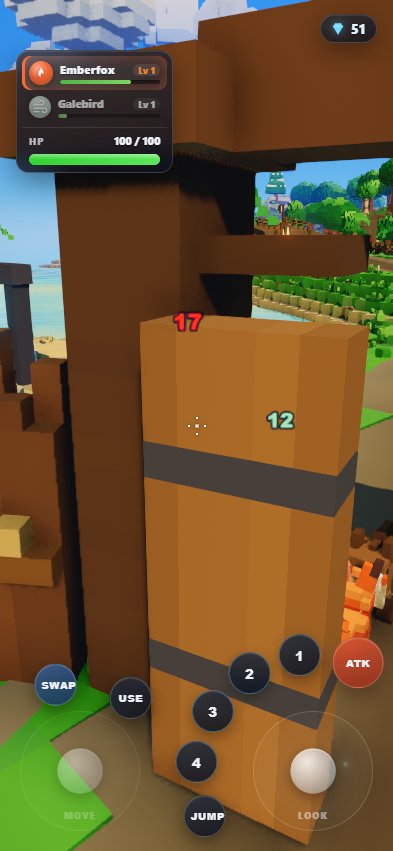
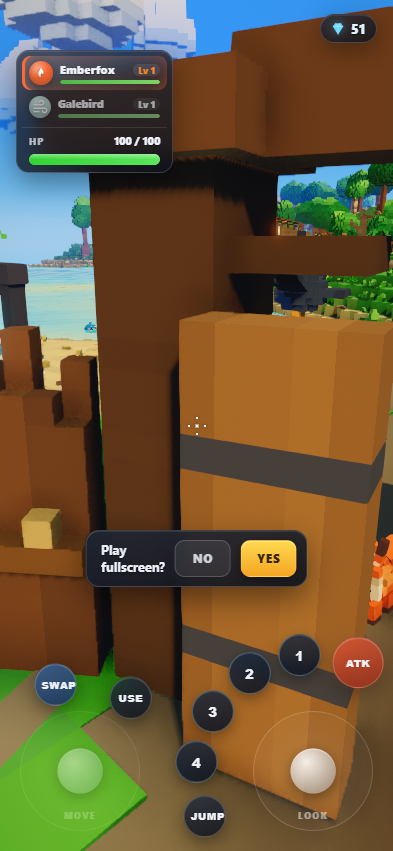
Touch: offer fullscreen once, with a real gesture behind the Yes
A small pill on touch devices only — "Play fullscreen?" with NO / YES.

THE GESTURE IS THE WHOLE PROBLEM. requestFullscreen() only works from inside a
genuine user-activation handler, so it is the FIRST statement of the YES button's
own click handler: no frame-loop flag, no timer, no promise chain. Storing the
answer and tearing down the DOM happen after the call is already issued. Verified
with a TRUSTED CDP tap rather than a synthetic dispatchEvent — a synthetic event
grants no user activation and would have silently passed a broken implementation.

It is a body-level sibling of .cp-root, not a child, because .cp-root's z-index
opens a stacking context and nothing inside it can hit-test above the touch
overlay. Only the pill is pointer-events:auto and both answers remove() the node,
so nothing survives to swallow a look drag — measured: after dismissal
elementFromPoint at its old location returns CANVAS and a drag there turns the
camera 4.01 rad.

Placement is measured, not guessed. The fan buttons top out at 217px but the
INVISIBLE look pad starts at 232px; a first pass at 240px left an 8px band a
thumb could clip. 264px gives 32px of clearance and clears .cp-hint too.

iPhone Safari has no element-level Fullscreen API at all, so the feature detect
means the prompt is never built there — a Yes that does nothing is worse than no
prompt, and the detect is the one thing ?fsprompt=1 does not bypass.
[…]

diff --git a/src/ui/fullscreen.ts b/src/ui/fullscreen.ts
@@ -1,0 +1,202 @@
+import { isTouchPrimary } from '../core/touch';
+import { injectStyles } from './styles';
+
+/**
+ * "Play fullscreen?" — a two-button pill, touch devices only.
+ *
+ * WHY IT IS A SEPARATE OVERLAY AND NOT A HUD CHILD
+ *
+ * `.cp-root` is `z-index:20`, which makes it a stacking context, so a child of
+ * it can never hit-test above the touch overlay at `z-index:30` — and the pill
+ * has to sit over the corner the transparent look pad owns. So this is a
+ * body-level sibling at `z-index:40`, built and removed by this module alone.
+ * Its CSS still lives in `ui/styles.ts` with the rest of the HUD sheet
+ * (`cp-fsprompt` / `cp-fs-btn`), and it follows the same rule everything else
+ * there follows: the interactive element opts INTO pointer events, nothing else
+ * does, and dismissing it deletes the node — there is no invisible wrapper left
+ * over the play area to eat a drag.
+ *
+ * THE GESTURE RULE
+ *
+ * `Element.requestFullscreen()` only counts when the browser can attribute it to
+ * a user activation. It is therefore called as the FIRST statement of the YES
+ * button's own click handler — not deferred to a frame-loop flag, not chained
+ * onto a promise that lands a tick later, not fired from a timer. Everything
+ * that is not the request itself (remembering the answer, tearing the DOM down)
+ * happens after the call has already been made.
+ *
+ * WHERE IT DOES NOT APPEAR
+ *
+ * iOS Safari on iPhone has no element-level Fullscreen API at all — no
+ * `requestFullscreen`, no `webkitRequestFullscreen` on an element, only
+ * `<video>.webkitEnterFullscreen`. A prompt whose YES silently does nothing is
+ * worse than no prompt, so `supported()` feature-detects both the standard and
+ * the webkit-prefixed entry points (plus the `*fullscreenEnabled` flag, which is
+ * how an iframe or a policy says "the method exists but is forbidden") and the
+ * prompt is simply never built where the answer could not be honoured.
+ *
+ * PERSISTENCE — see `readAnswer`.
+ */
+
+/** localStorage key. Namespaced so a later save system can share the prefix. */
+const STORAGE_KEY = 'cp:fullscreen-prompt';
+
+type Answer = 'yes' | 'no';
+
+/** The prefixed half of the API, as it exists on Safari/older WebKit. */
+type FsElement = HTMLElement & {
+  webkitRequestFullscreen?: () => Promise<void> | void;
+};
+type FsDocument = Document & {
+  webkitFullscreenElement?: Element | null;
+  webkitFullscreenEnabled?: boolean;
+};
+
+/**
+ * True when this browser can actually put the page fullscreen.
+ *
+ * The method check is the important half (iPhone Safari fails it outright); the
+ * `*fullscreenEnabled` check catches the case where the method exists but the
+ * embedding context forbids it, and is written as `!== false` so a browser that
+ * never defined the flag is not disqualified by it.
+ */
+export function fullscreenSupported(): boolean {
+  if (typeof document === 'undefined') return false;
+  const el = document.documentElement as FsElement;
+  const doc = document as FsDocument;
+  if (typeof el.requestFullscreen === 'function') return doc.fullscreenEnabled !== false;
+  if (typeof el.webkitRequestFullscreen === 'function') return doc.webkitFullscreenEnabled !== false;
+  return false;
+}
+
+/** Currently fullscreen, by either spelling. */
+export function isFullscreen(): boolean {
+  const doc = document as FsDocument;
+  return !!(document.fullscreenElement ?? doc.webkitFullscreenElement ?? null);
+}
+
+/**
+ * The stored answer, or null if never asked.
+ *
+ * BOTH answers are sticky and both suppress the prompt forever after.
+ *
+ * "No" obviously has to stick or it nags on every load. "Yes" sticks for the
+ * same reason: the answer CANNOT be replayed automatically — entering
+ * fullscreen needs a gesture and a page load is not one — so re-asking a player
+ * who already said yes is the identical nag with a nicer story attached, and
+ * quietly grabbing fullscreen off their first ATK tap instead would fire in the
+ * middle of gameplay and read as a bug. So a "yes" session that ends (or a
+ * system swipe out of fullscreen) simply leaves the game windowed, and
+ * `?fsprompt=1` is the documented way back — the same URL-override culture the
+ * post-processing knobs already use.
+ *
+ * localStorage throws in some private-browsing modes; a failure degrades to
+ * "never asked", i.e. the prompt shows again next load, which is the harmless
+ * direction to fail in.
+ */
+function readAnswer(): Answer | null {
+  try {
+    const v = window.localStorage.getItem(STORAGE_KEY);
+    return v === 'yes' || v === 'no' ? v : null;
+  } catch {
+    return null;
+  }
+}
+
+function writeAnswer(a: Answer): void {
+  try {
+    window.localStorage.setItem(STORAGE_KEY, a);
+  } catch {
+    /* private mode: the answer just does not persist */
+  }
+}
+
+export class FullscreenPrompt {
+  private el: HTMLDivElement | null = null;
+
+  /**
+   * Build the prompt, or return null when it should not be shown.
+   *
+   * The gate, in order:
+   *   - `?fsprompt=0` suppresses it outright (captures, tooling).
+   *   - `?fsprompt=1` forces it past the device test and any stored answer, so
+   *     it can be inspected on a desktop and re-offered after a "no". It does
+   *     NOT bypass the feature detect: a YES that does nothing stays impossible.
+   *   - otherwise: touch-primary device (the SAME `isTouchPrimary()` the touch
+   *     overlay uses — there is no second device test), API present, no stored
+   *     answer, and not already fullscreen.
+   */
+  static offer(): FullscreenPrompt | null {
+    let force = false;
+    try {
+      const p = new URLSearchParams(window.location.search).get('fsprompt');
+      if (p === '0') return null;
+      force = p === '1';
+    } catch { /* no search params: fall through to the normal gate */ }
+
+    if (!fullscreenSupported()) return null;
+    if (!force) {
+      if (!isTouchPrimary()) return null;
+      if (readAnswer() !== null) return null;
+      if (isFullscreen()) return null;
+    }
+    return new FullscreenPrompt();
+  }
+
+  private constructor() {
+    injectStyles();
+
+    const el = document.createElement('div');
+    el.className = 'cp-fsprompt';
+    el.innerHTML =
+      '<div class="txt">Play fullscreen?</div>' +
+      '<button class="cp-fs-btn no" type="button">NO</button>' +
+      '<button class="cp-fs-btn yes" type="button">YES</button>';
+    this.el = el;
+
+    const yes = el.querySelector('.cp-fs-btn.yes') as HTMLButtonElement;
+    const no = el.querySelector('.cp-fs-btn.no') as HTMLButtonElement;
+
+    yes.addEventListener('click', () => {
+      // FIRST — the browser only honours this while the activation from this
+      // very click is still live. Nothing may run before it.
+      const el2 = document.documentElement as FsElement;
+      const req = typeof el2.requestFullscreen === 'function'
+        ? el2.requestFullscreen({ navigationUI: 'hide' })
+        : el2.webkitRequestFullscreen?.();
+      // A rejection here (user agent said no, or the activation was stale) is
+      // not worth an error dialog — the game just stays windowed. Swallow it so
+      // it does not surface as an unhandled rejection.
+      void Promise.resolve(req).catch(() => {});
+      writeAnswer('yes');
+      this.close();
+    });
+
+    no.addEventListener('click', () => {
+      writeAnswer('no');
+      this.close();
+    });
+
+    document.body.appendChild(el);
+    // Next frame so the entrance transition has a start state to move from.
+    requestAnimationFrame(() => el.classList.add('show'));
+  }
+
+  /** True while the pill is on screen. */
+  get isOpen(): boolean {
+    return this.el !== null;
+  }
+
+  /**
+   * Take the pill away without recording anything. Used by dispose(); an answer
+   * goes through the button handlers, which write first and then land here.
+   */
+  private close(): void {
+    this.el?.remove();
+    this.el = null;
+  }
+
+  dispose(): void {
+    this.close();
+  }
+}

diff --git a/src/ui/styles.ts b/src/ui/styles.ts
@@ -363,6 +363,58 @@ const CSS = `
   flex-wrap:wrap;justify-content:center;font-size:11.5px;font-weight:600;color:rgba(238,242,248,.7)}
 .cp-shop-foot span{display:inline-flex;align-items:center;gap:6px;white-space:nowrap}
 
+/* ---- fullscreen offer (touch devices only) ------------------------------- */
+/* A body-level SIBLING of .cp-root, not a child of it. .cp-root carries
+   z-index:20 and therefore opens its own stacking context, so nothing inside it
+   can ever hit-test above the touch overlay (.cp-touch, z-index:30) — and this
+   prompt is drawn right over the corner the look pad owns. Sitting at z-index:40
+   in the ROOT stacking context is what lets it take its own taps. The dev
+   console (9000) and the F2 overlay (9999) still win, as they should.
+
+   There is no wrapper and no scrim: the ONLY pixels this thing occupies are its
+   own, and both answers remove() the element outright, so nothing is left
+   behind to swallow a drag. pointer-events:auto sits on the pill itself rather
+   than on a parent, following the same opt-in rule the rest of the HUD uses.
+
+   bottom:264px is measured, not guessed. What has to be cleared is not the fan
+   buttons (topmost reach 217px up from the bottom edge in BOTH orientations —
+   the fan is sized in vmin, so landscape is the same cluster turned 90°) but the
+   INVISIBLE look pad behind them, which on an emulated Pixel 5 starts 232px up.
+   240px was tried first and left the pill's bottom edge 8px above the pad: no
+   overlap, but a thumb reaching for the top of the drag surface could clip the
+   NO button. 264px puts a 32px band between them, and still sits above
+   .cp-hint's 232px so the interaction prompt and this one never stack.
+   Measured at 264: portrait pill y 530-587, landscape y 72-129 — clear of every
+   stick and button, above the reticle at y 196 in landscape, and between the
+   party panel (top-left) and the toast stack (top-right). */
+.cp-fsprompt{position:fixed;left:50%;bottom:calc(264px + env(safe-area-inset-bottom));
+  z-index:40;pointer-events:auto;touch-action:manipulation;
+  display:flex;align-items:center;gap:10px;padding:9px 10px 9px 15px;
+  max-width:min(330px,90vw);border-radius:14px;
+  font-family:-apple-system,BlinkMacSystemFont,"Segoe UI",Roboto,"Helvetica Neue",Arial,sans-serif;
+  color:#eef2f8;-webkit-user-select:none;user-select:none;
+  -webkit-tap-highlight-color:transparent;
+  background:linear-gradient(165deg,rgba(30,38,54,.86),rgba(14,18,28,.92));
+  border:1px solid rgba(255,255,255,.16);
+  box-shadow:0 12px 30px rgba(0,0,0,.45),inset 0 1px 0 rgba(255,255,255,.09);
+  backdrop-filter:blur(10px);-webkit-backdrop-filter:blur(10px);
+  /* The -50% centring lives in the transform, so every state below has to
+     restate it or the pill jumps half its width sideways as it animates. */
+  opacity:0;transform:translateX(-50%) translateY(10px);
+  transition:opacity .26s ease,transform .3s cubic-bezier(.34,1.5,.64,1)}
+.cp-fsprompt.show{opacity:1;transform:translateX(-50%) translateY(0)}
+.cp-fsprompt .txt{flex:1;font-size:12.5px;font-weight:700;letter-spacing:.01em;
+  line-height:1.3;text-shadow:0 1px 2px rgba(0,0,0,.5)}
+.cp-fs-btn{flex:none;min-width:56px;padding:9px 14px 10px;border-radius:10px;
+  border:1px solid rgba(255,255,255,.18);font-family:inherit;font-weight:800;
+  font-size:12px;letter-spacing:.06em;cursor:pointer;
+  background:rgba(255,255,255,.08);color:rgba(238,242,248,.82);
+  transition:filter .12s ease,transform .12s ease}
+.cp-fs-btn.yes{border-color:transparent;color:#3a2703;
+  background:linear-gradient(180deg,#ffd94f,#f5a623);
+  box-shadow:0 3px 8px rgba(0,0,0,.3),inset 0 1px 0 rgba(255,255,255,.45)}
+.cp-fs-btn:active{filter:brightness(1.2);transform:translateY(1px) scale(.98)}
+
 /* ---- responsive ---------------------------------------------------------- */
 /* Respect notches/rounded corners on phones. */
 .cp-left{left:max(16px,env(safe-area-inset-left))}

diff --git a/src/main.ts b/src/main.ts
@@ -22,6 +22,7 @@ import { MountController } from './player/mount';
 import { PalActor, registerSkillDefs } from './pals/framework';
 import { CombatSystem } from './combat/index';
 import { HUD, type PalHudInfo, type ShopOffer, type SkillSlot } from './ui/index';
+import { FullscreenPrompt } from './ui/fullscreen';
 import { ALL_SPECIES, SKILLS, getSkill } from './pals/registry';
 
 const app = document.getElementById('app')!;
@@ -563,6 +564,19 @@ let photoAnimTimer = 0;
 // Touch overlay: only exists on devices with a touch screen (null otherwise,
 // so nothing is added to the DOM and there is no per-frame cost).
 const touch = photoMode ? null : TouchControls.attach(input);
+
+// "Play fullscreen?" — null on desktop, on browsers with no Fullscreen API, and
+// once the player has answered (see ui/fullscreen.ts for the whole gate).
+//
+// It deliberately does NOT get the shop's modal treatment: `simulate()` freezes
+// the hero while a shop or the console is open because those TAKE the input
+// device, and this pill takes nothing but its own 330x50 of screen. It shows up
+// next to the welcome toast, so stopping the world for a display preference
+// would be a much heavier interruption than the question deserves — the sticks
+// stay live under it and a player who ignores it can just walk off.
+// No handle is kept: the pill owns its own lifetime — either button deletes the
+// node — and nothing in the frame loop has anything to say to it.
+if (!photoMode) FullscreenPrompt.offer();
 
 // Probes for the automated input tests (tools/test-touch.mjs). Read-only.
 interface DebugProbes {

diff --git a/AGENTS.md b/AGENTS.md
@@ -185,7 +185,9 @@ that exist purely for those tools; keep them working.
 
 **Game URL parameters.** `photo=1` with `cam=x,y,z` / `look=x,y,z` / `pal=<id>` /
 `anim=` / `a=<deg>` / `hud=0` stages captures; `fps=<n>` caps the frame rate;
-`debug=1` opens the F2 overlay; plus every post-processing override above. Lab
+`debug=1` opens the F2 overlay; `fsprompt=1` forces the touch fullscreen offer
+past the device test and any remembered answer (`fsprompt=0` suppresses it, and
+it never appears in `photo=1`); plus every post-processing override above. Lab
 parameters are in [LAB.md](LAB.md).
 
 ## Conventions
